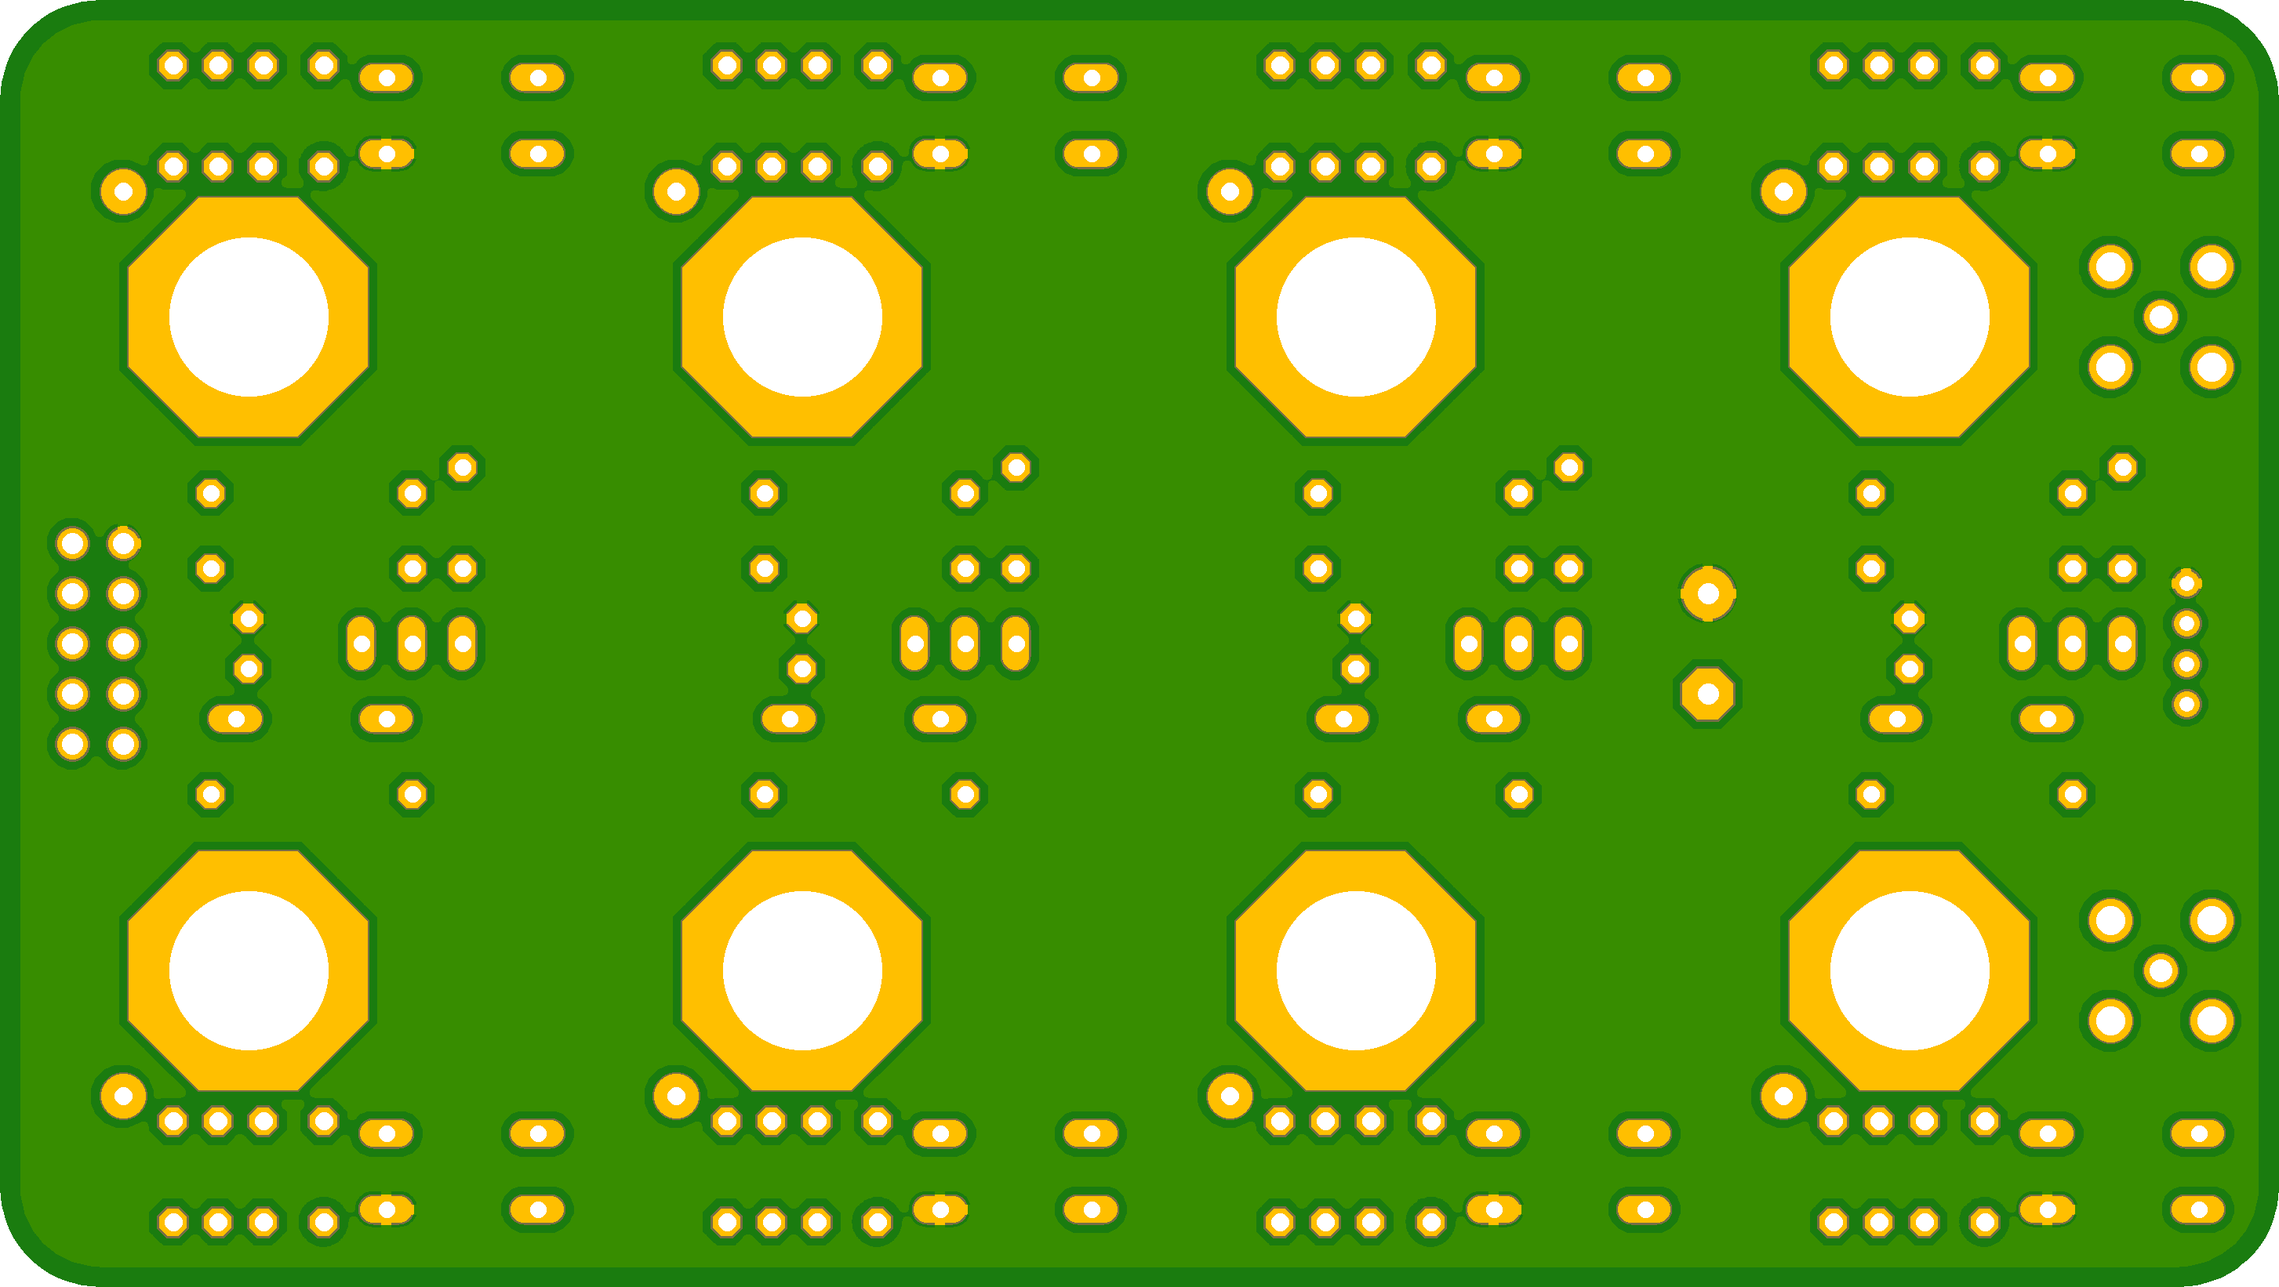
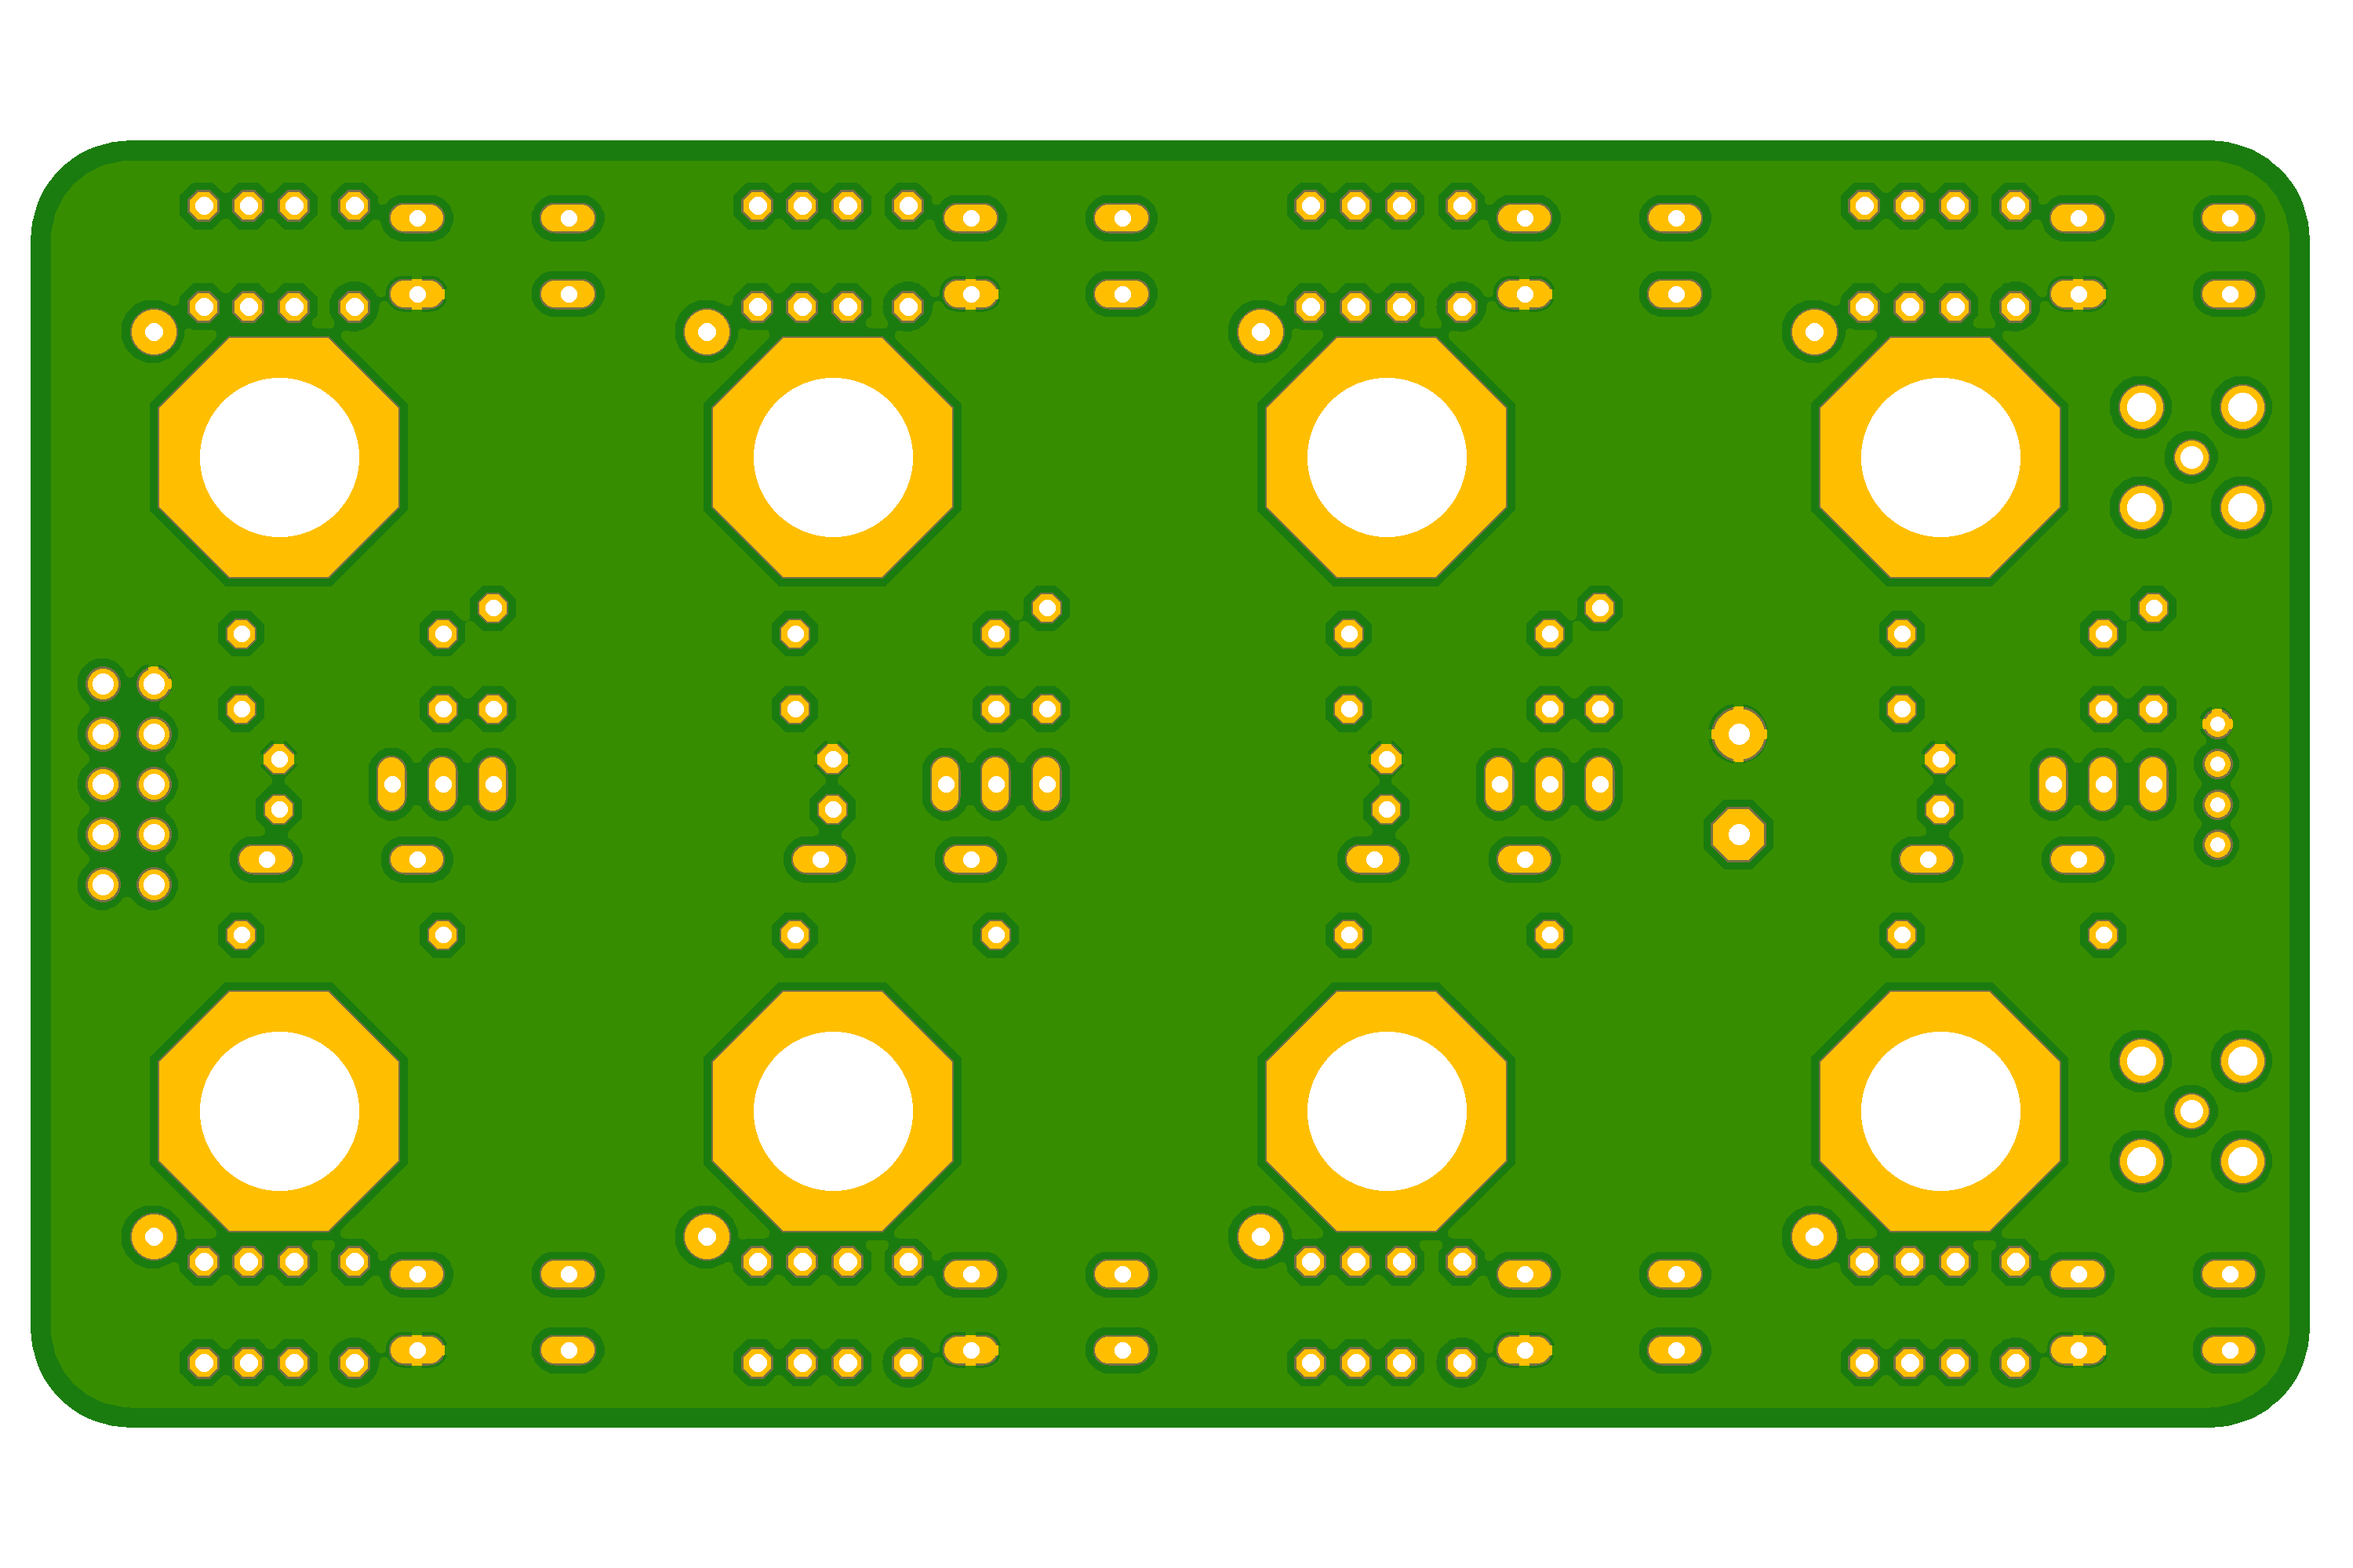
Added io-board-4-0-rca

diff --git a/io-board-4-0-rca/README.md b/io-board-4-0-rca/README.md
@@ -6,11 +6,14 @@
 ## Table of contents
 - [Overview](#overview)
 - [PCB Specifications](#pcb-specifications)
+- [Circuit Diagram Switch Logic](#circuit-diagram-switch-logic)
+- [Circuit Diagram Left Channel](#circuit-diagram-left-channel)
+- [Circuit Diagram Right Channel](#circuit-diagram-right-channel)
 - [BOM](#bom)
 
 ## Overview
-[![PCB Front](./docs/pcb-front.thumb.png)](./docs/pcb-front.png)
-[![PCB Back](./docs/pcb-back.thumb.png)](./docs/pcb-back.png)
+[![PCB Front](./docs/pcb-front.png)](./docs/pcb-front.png)
+[![PCB Back](./docs/pcb-back.png)](./docs/pcb-back.png)
 - Designed for 5V DC operation
 - 4 input RCA connections with indicator LEDs
 - Both signal and ground are switched on RCA boards to prevent ground loops between digital devices
@@ -29,8 +32,14 @@
 - Solder mask: Matte black
 - Silkscreen: White
 
-## PCB Dimensions
-![PCB Dimensions](./docs/pcb_dimensions.png)
+## Circuit Diagram Switch Logic
+![Circuit Diagram Switch Logic](./docs/circuit-diagram-switch-logic.png)
+
+## Circuit Diagram Left Channel
+![Circuit Diagram Left Channel](./docs/circuit-diagram-left-channel.png)
+
+## Circuit Diagram Right Channel
+![Circuit Diagram Right Channel](./docs/circuit-diagram-right-channel.png)
 
 ## BOM
 |Type|Quantity|Value|Description|
@@ -46,5 +55,5 @@
 |CONNECTOR|4|RCA White|Signal connectors|
 |CONNECTOR|4|RCA Red|Signal connectors|
 |CONNECTOR|2|SMA|Signal connectors|
-|CONNECTOR|1|JST PH 4-PIN|Control connectors|
-|CONNECTOR|1|2x5 header|Control connectors|
+|CONNECTOR|1|JST PH4P ST90|Control connector|
+|CONNECTOR|1|2x5 header|Control connector|
